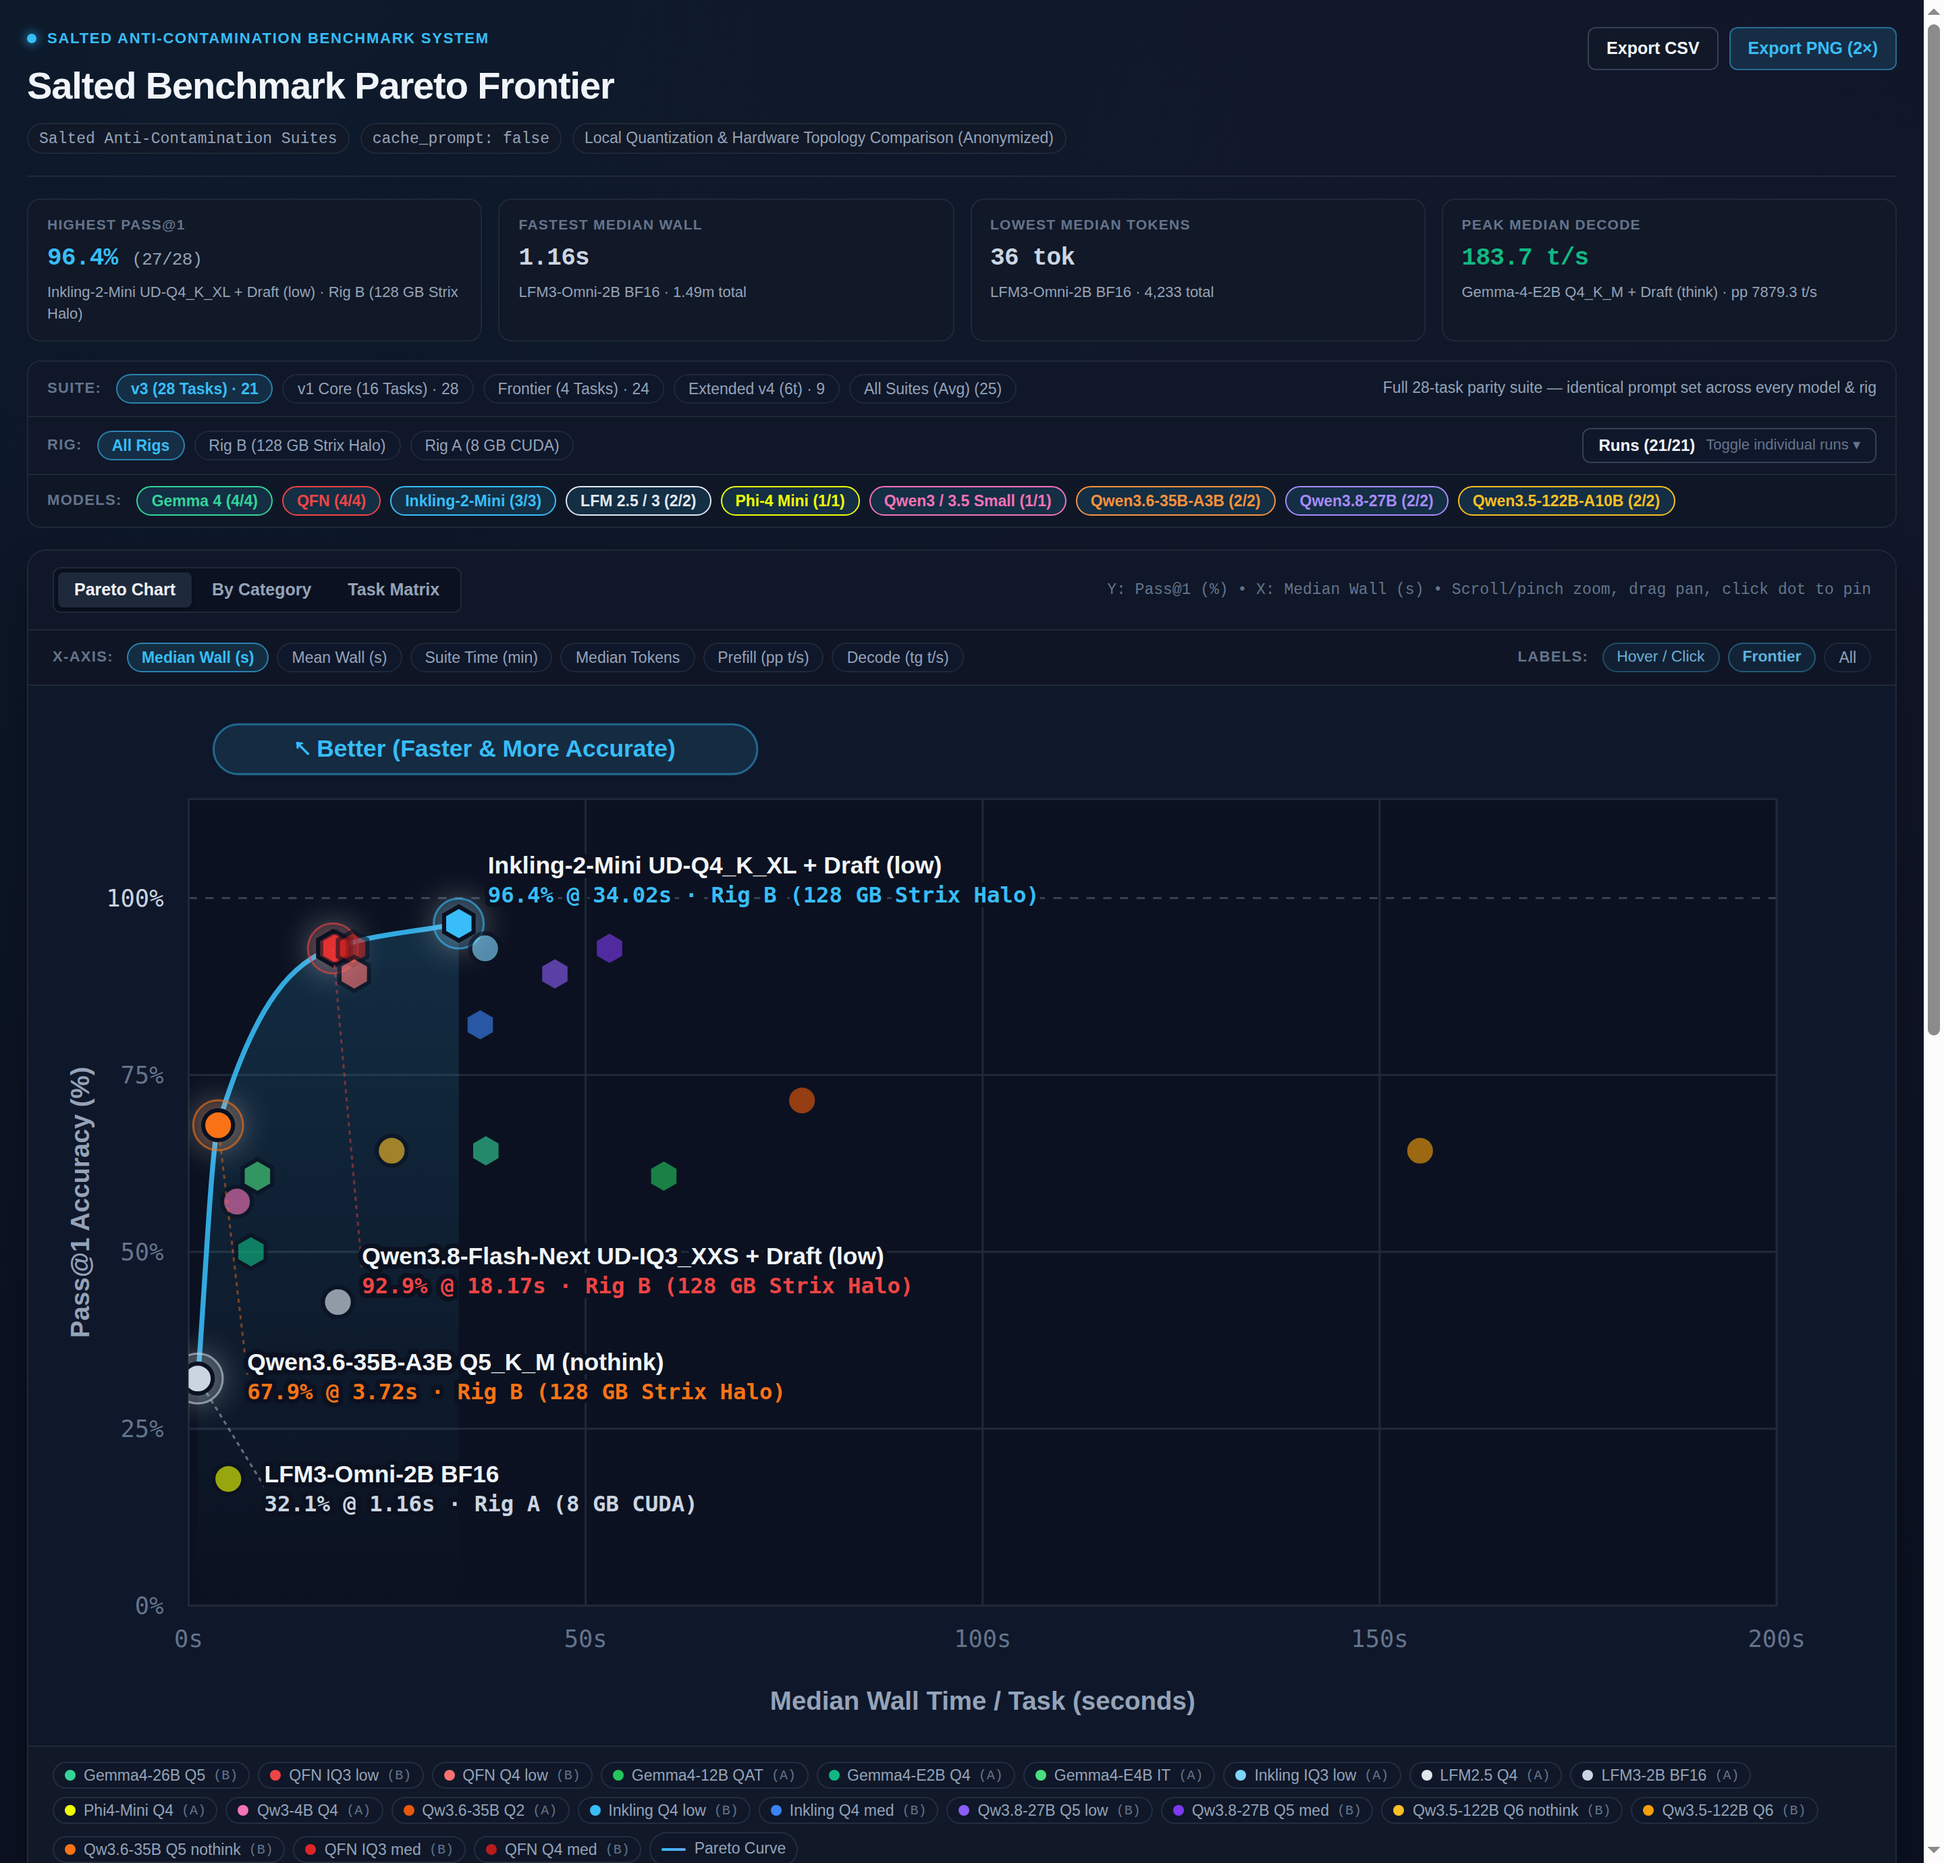
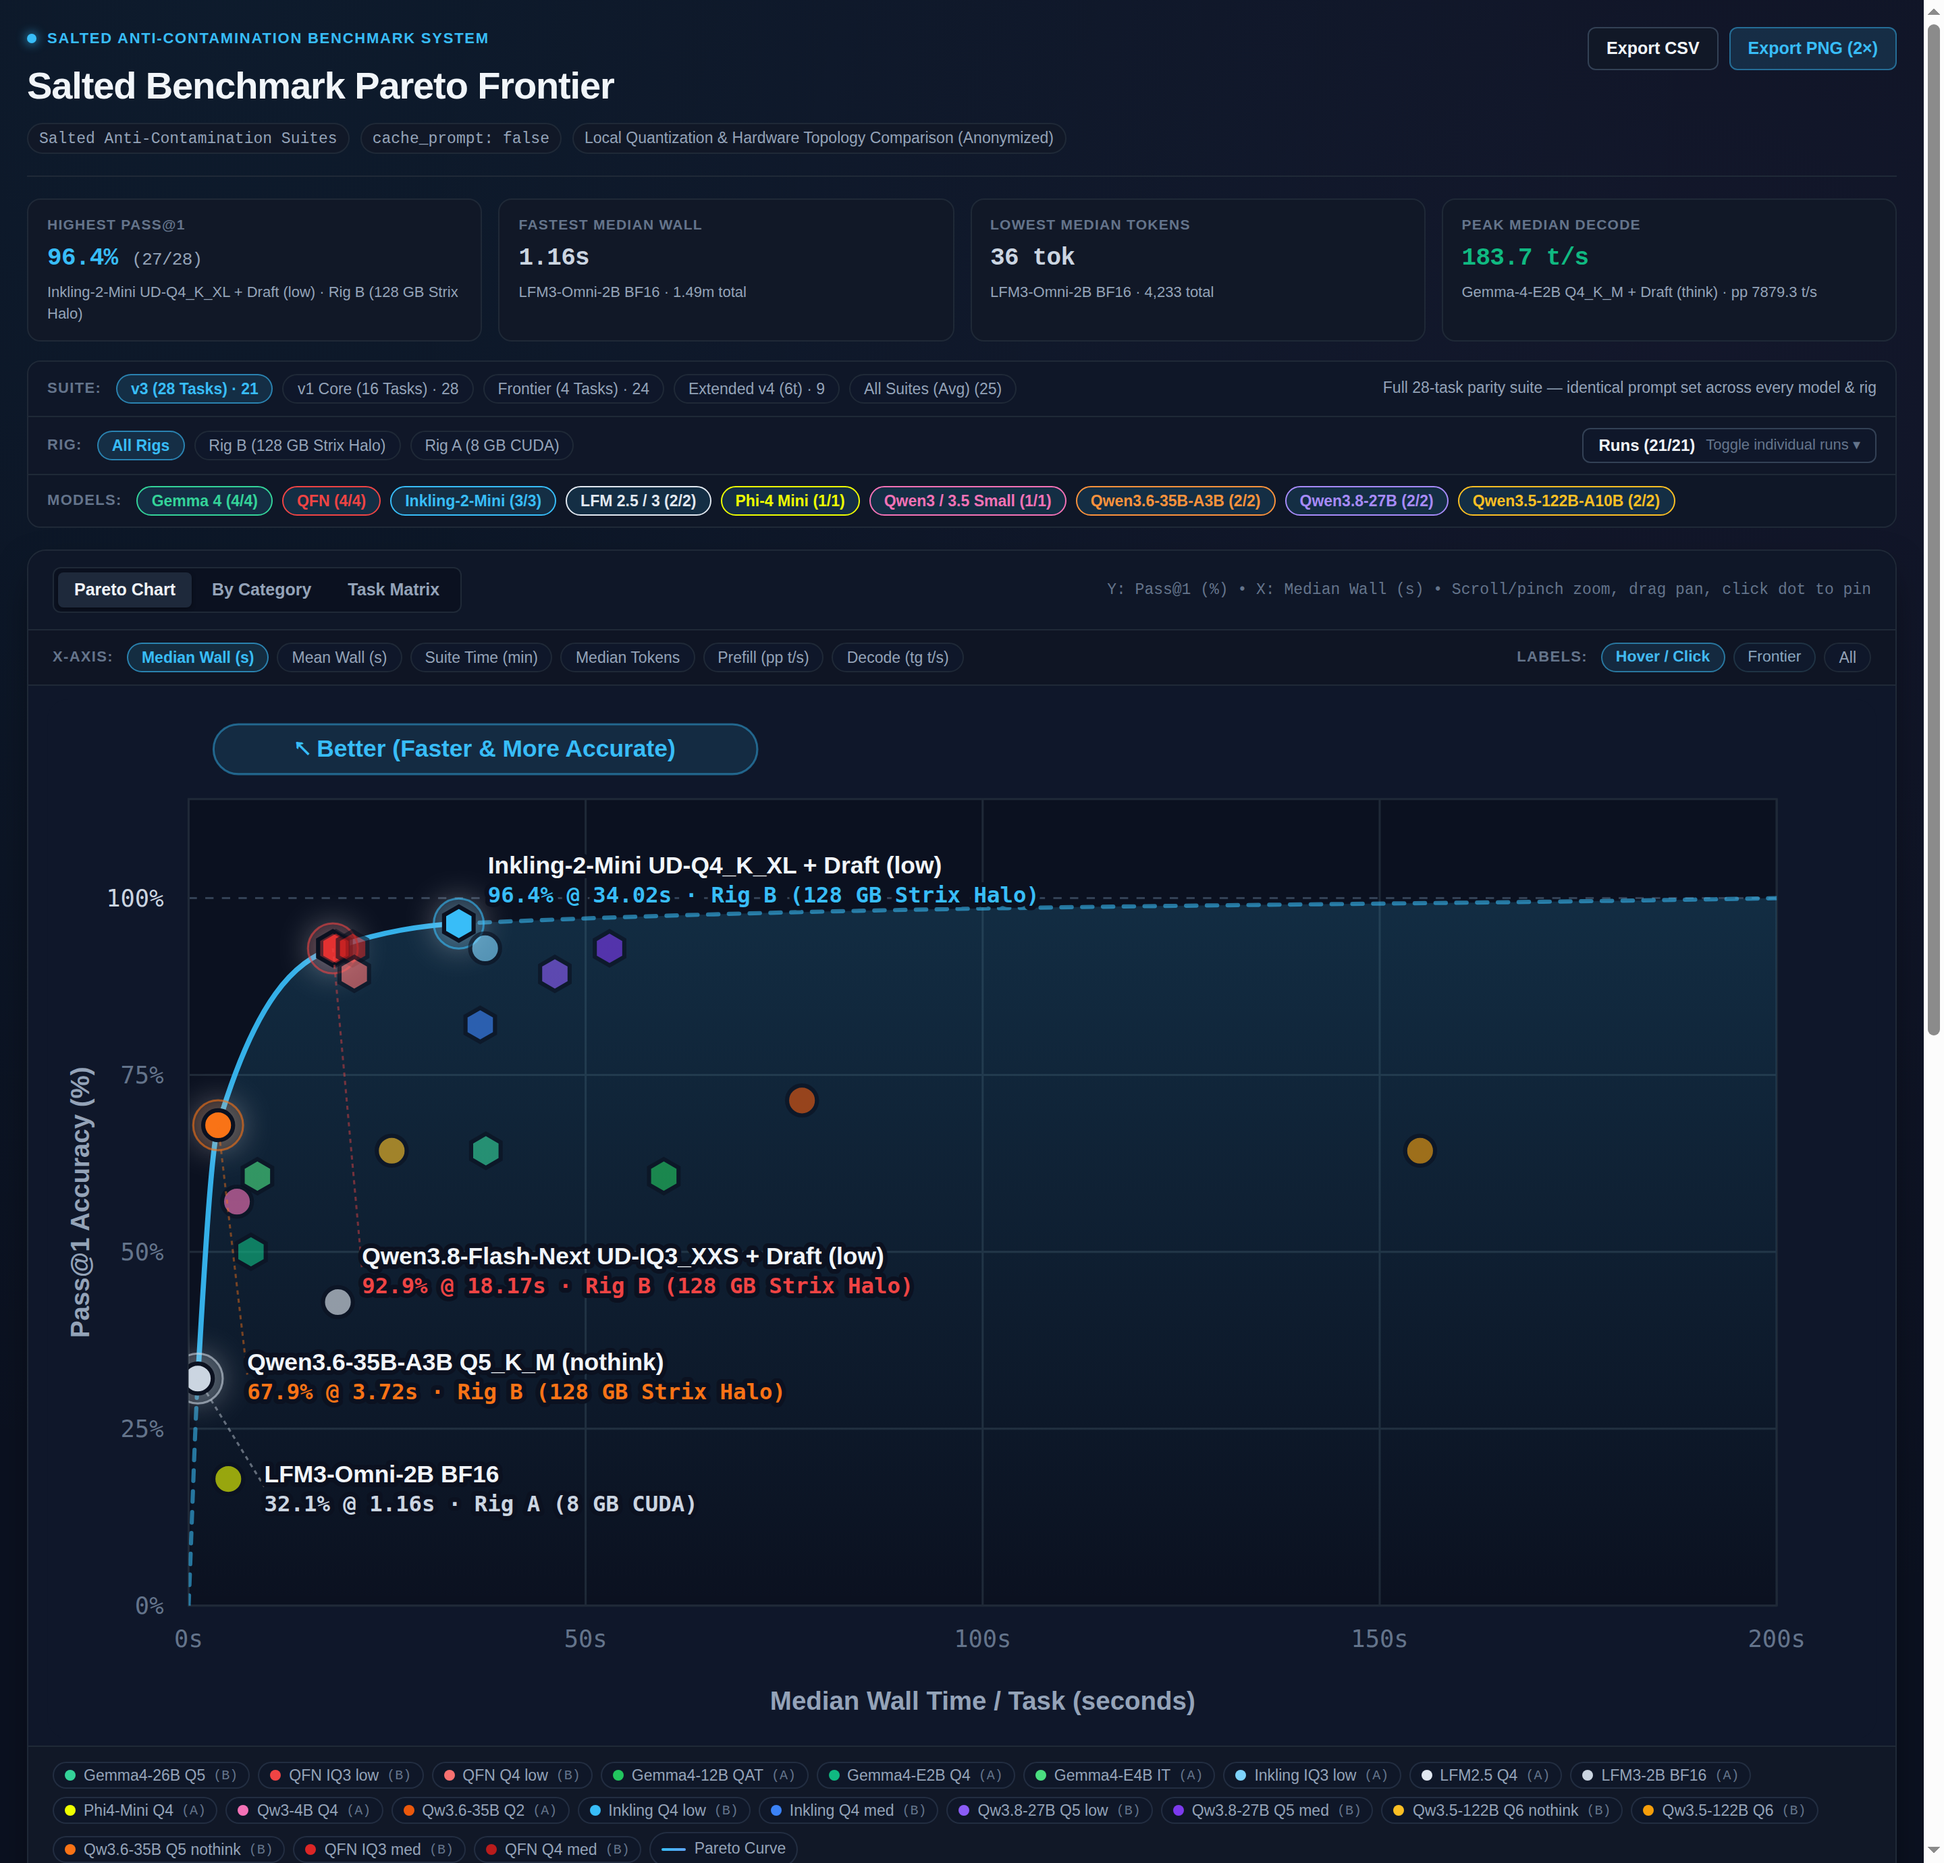
ui(dashboard): project Pareto frontier tails smoothly to 0%/100% plot edges

Changed region(s): [[0.2188, 0.4674, 0.9375, 0.592], [0.8438, 0.3428, 0.9375, 0.3739]]

diff --git a/index.html b/index.html
@@ -942,11 +942,9 @@
         return plotLayer;
       }
 
-      function monotoneCurveD(pts) {
-        if (!pts.length) return '';
-        if (pts.length === 1) return `M ${pts[0].x} ${pts[0].y}`;
-        if (pts.length === 2) return `M ${pts[0].x} ${pts[0].y} L ${pts[1].x} ${pts[1].y}`;
+      function monotoneSegments(pts) {
         const n = pts.length;
+        if (n < 2) return [];
         const dx = [], m = [];
         for (let i = 0; i < n - 1; i++) {
           const dxi = Math.max(0.5, pts[i + 1].x - pts[i].x);
@@ -964,25 +962,60 @@
             tang[i] = (w1 + w2) / (w1 / m[i - 1] + w2 / m[i]);
           }
         }
-        const parts = [`M ${pts[0].x.toFixed(2)} ${pts[0].y.toFixed(2)}`];
+        const segs = [];
         for (let i = 0; i < n - 1; i++) {
           const h = dx[i] / 3;
           const c1x = pts[i].x + h, c1y = pts[i].y + tang[i] * h;
           const c2x = pts[i + 1].x - h, c2y = pts[i + 1].y - tang[i + 1] * h;
-          parts.push(`C ${c1x.toFixed(2)} ${c1y.toFixed(2)}, ${c2x.toFixed(2)} ${c2y.toFixed(2)}, ${pts[i + 1].x.toFixed(2)} ${pts[i + 1].y.toFixed(2)}`);
+          segs.push({
+            x0: pts[i].x, y0: pts[i].y,
+            cmd: `C ${c1x.toFixed(2)} ${c1y.toFixed(2)}, ${c2x.toFixed(2)} ${c2y.toFixed(2)}, ${pts[i + 1].x.toFixed(2)} ${pts[i + 1].y.toFixed(2)}`,
+          });
         }
-        return parts.join(' ');
+        return segs;
       }
 
       function renderFrontierPath(layer, front, xKey, yKey, dom, lowerIsBetter) {
         if (!front.length) return;
         const pts = front.map(p => ({ x: sx(p[xKey], dom), y: sy(p[yKey], dom) })).sort((a, b) => a.x - b.x);
-        if (pts.length === 1) return;
-        const curveD = monotoneCurveD(pts);
-        const plotBottom = PAD.top + PLOT_H;
-        const areaD = `${curveD} L ${pts[pts.length - 1].x.toFixed(2)} ${plotBottom} L ${pts[0].x.toFixed(2)} ${plotBottom} Z`;
+        const y0Px = sy(0, dom), y100Px = sy(100, dom);
+        const leftEdge = PAD.left, rightEdge = PAD.left + PLOT_W, plotBottom = PAD.top + PLOT_H;
+        const leftAnchor = lowerIsBetter
+          ? { x: Math.min(pts[0].x - 0.5, Math.max(leftEdge, sx(0, dom))), y: y0Px }
+          : { x: Math.min(pts[0].x - 0.5, leftEdge), y: y100Px };
+        const rightAnchor = lowerIsBetter
+          ? { x: Math.max(pts[pts.length - 1].x + 0.5, rightEdge), y: y100Px }
+          : { x: Math.max(pts[pts.length - 1].x + 0.5, rightEdge), y: y0Px };
+
+        const extPts = [];
+        if (pts[0].x > leftAnchor.x + 1 || Math.abs(pts[0].y - leftAnchor.y) > 1) extPts.push(leftAnchor);
+        const coreStart = extPts.length;
+        pts.forEach(p => extPts.push(p));
+        const hasRight = (rightAnchor.x > pts[pts.length - 1].x + 1 || Math.abs(rightAnchor.y - pts[pts.length - 1].y) > 1);
+        if (hasRight) extPts.push(rightAnchor);
+
+        const segs = monotoneSegments(extPts);
+        if (!segs.length) return;
+        const fullD = `M ${extPts[0].x.toFixed(2)} ${extPts[0].y.toFixed(2)} ` + segs.map(s => s.cmd).join(' ');
+        const areaD = `${fullD} L ${extPts[extPts.length - 1].x.toFixed(2)} ${plotBottom} L ${extPts[0].x.toFixed(2)} ${plotBottom} Z`;
         layer.appendChild(el('path', { d: areaD, fill: 'url(#frontier-area-grad)' }));
-        layer.appendChild(el('path', { d: curveD, fill: 'none', stroke: '#38bdf8', 'stroke-width': 2.4, 'stroke-linecap': 'round', 'stroke-opacity': 0.88 }));
+
+        // Projected tails (dashed, softer) + measured core frontier (solid) sharing identical C1 spline tangents
+        const coreEndSeg = coreStart + Math.max(0, pts.length - 1);
+        if (coreStart > 0) {
+          const dLeft = `M ${segs[0].x0.toFixed(2)} ${segs[0].y0.toFixed(2)} ${segs[0].cmd}`;
+          layer.appendChild(el('path', { d: dLeft, fill: 'none', stroke: '#38bdf8', 'stroke-width': 2.0, 'stroke-dasharray': '5 5', 'stroke-linecap': 'round', 'stroke-opacity': 0.58 }));
+        }
+        if (pts.length >= 2) {
+          const coreSegs = segs.slice(coreStart, coreEndSeg);
+          const dCore = `M ${coreSegs[0].x0.toFixed(2)} ${coreSegs[0].y0.toFixed(2)} ` + coreSegs.map(s => s.cmd).join(' ');
+          layer.appendChild(el('path', { d: dCore, fill: 'none', stroke: '#38bdf8', 'stroke-width': 2.5, 'stroke-linecap': 'round', 'stroke-opacity': 0.92 }));
+        }
+        if (hasRight) {
+          const rSeg = segs[segs.length - 1];
+          const dRight = `M ${rSeg.x0.toFixed(2)} ${rSeg.y0.toFixed(2)} ${rSeg.cmd}`;
+          layer.appendChild(el('path', { d: dRight, fill: 'none', stroke: '#38bdf8', 'stroke-width': 2.0, 'stroke-dasharray': '5 5', 'stroke-linecap': 'round', 'stroke-opacity': 0.58 }));
+        }
       }
 
       function drawMarker(layer, cx, cy, color, shape, isFront, isHighlighted, payload, kind, ptId, labelGroup) {

diff --git a/pareto-dashboard.py b/pareto-dashboard.py
@@ -1137,11 +1137,9 @@ HTML_TEMPLATE = r"""<!DOCTYPE html>
         return plotLayer;
       }
 
-      function monotoneCurveD(pts) {
-        if (!pts.length) return '';
-        if (pts.length === 1) return `M ${pts[0].x} ${pts[0].y}`;
-        if (pts.length === 2) return `M ${pts[0].x} ${pts[0].y} L ${pts[1].x} ${pts[1].y}`;
+      function monotoneSegments(pts) {
         const n = pts.length;
+        if (n < 2) return [];
         const dx = [], m = [];
         for (let i = 0; i < n - 1; i++) {
           const dxi = Math.max(0.5, pts[i + 1].x - pts[i].x);
@@ -1159,25 +1157,60 @@ HTML_TEMPLATE = r"""<!DOCTYPE html>
             tang[i] = (w1 + w2) / (w1 / m[i - 1] + w2 / m[i]);
           }
         }
-        const parts = [`M ${pts[0].x.toFixed(2)} ${pts[0].y.toFixed(2)}`];
+        const segs = [];
         for (let i = 0; i < n - 1; i++) {
           const h = dx[i] / 3;
           const c1x = pts[i].x + h, c1y = pts[i].y + tang[i] * h;
           const c2x = pts[i + 1].x - h, c2y = pts[i + 1].y - tang[i + 1] * h;
-          parts.push(`C ${c1x.toFixed(2)} ${c1y.toFixed(2)}, ${c2x.toFixed(2)} ${c2y.toFixed(2)}, ${pts[i + 1].x.toFixed(2)} ${pts[i + 1].y.toFixed(2)}`);
+          segs.push({
+            x0: pts[i].x, y0: pts[i].y,
+            cmd: `C ${c1x.toFixed(2)} ${c1y.toFixed(2)}, ${c2x.toFixed(2)} ${c2y.toFixed(2)}, ${pts[i + 1].x.toFixed(2)} ${pts[i + 1].y.toFixed(2)}`,
+          });
         }
-        return parts.join(' ');
+        return segs;
       }
 
       function renderFrontierPath(layer, front, xKey, yKey, dom, lowerIsBetter) {
         if (!front.length) return;
         const pts = front.map(p => ({ x: sx(p[xKey], dom), y: sy(p[yKey], dom) })).sort((a, b) => a.x - b.x);
-        if (pts.length === 1) return;
-        const curveD = monotoneCurveD(pts);
-        const plotBottom = PAD.top + PLOT_H;
-        const areaD = `${curveD} L ${pts[pts.length - 1].x.toFixed(2)} ${plotBottom} L ${pts[0].x.toFixed(2)} ${plotBottom} Z`;
+        const y0Px = sy(0, dom), y100Px = sy(100, dom);
+        const leftEdge = PAD.left, rightEdge = PAD.left + PLOT_W, plotBottom = PAD.top + PLOT_H;
+        const leftAnchor = lowerIsBetter
+          ? { x: Math.min(pts[0].x - 0.5, Math.max(leftEdge, sx(0, dom))), y: y0Px }
+          : { x: Math.min(pts[0].x - 0.5, leftEdge), y: y100Px };
+        const rightAnchor = lowerIsBetter
+          ? { x: Math.max(pts[pts.length - 1].x + 0.5, rightEdge), y: y100Px }
+          : { x: Math.max(pts[pts.length - 1].x + 0.5, rightEdge), y: y0Px };
+
+        const extPts = [];
+        if (pts[0].x > leftAnchor.x + 1 || Math.abs(pts[0].y - leftAnchor.y) > 1) extPts.push(leftAnchor);
+        const coreStart = extPts.length;
+        pts.forEach(p => extPts.push(p));
+        const hasRight = (rightAnchor.x > pts[pts.length - 1].x + 1 || Math.abs(rightAnchor.y - pts[pts.length - 1].y) > 1);
+        if (hasRight) extPts.push(rightAnchor);
+
+        const segs = monotoneSegments(extPts);
+        if (!segs.length) return;
+        const fullD = `M ${extPts[0].x.toFixed(2)} ${extPts[0].y.toFixed(2)} ` + segs.map(s => s.cmd).join(' ');
+        const areaD = `${fullD} L ${extPts[extPts.length - 1].x.toFixed(2)} ${plotBottom} L ${extPts[0].x.toFixed(2)} ${plotBottom} Z`;
         layer.appendChild(el('path', { d: areaD, fill: 'url(#frontier-area-grad)' }));
-        layer.appendChild(el('path', { d: curveD, fill: 'none', stroke: '#38bdf8', 'stroke-width': 2.4, 'stroke-linecap': 'round', 'stroke-opacity': 0.88 }));
+
+        // Projected tails (dashed, softer) + measured core frontier (solid) sharing identical C1 spline tangents
+        const coreEndSeg = coreStart + Math.max(0, pts.length - 1);
+        if (coreStart > 0) {
+          const dLeft = `M ${segs[0].x0.toFixed(2)} ${segs[0].y0.toFixed(2)} ${segs[0].cmd}`;
+          layer.appendChild(el('path', { d: dLeft, fill: 'none', stroke: '#38bdf8', 'stroke-width': 2.0, 'stroke-dasharray': '5 5', 'stroke-linecap': 'round', 'stroke-opacity': 0.58 }));
+        }
+        if (pts.length >= 2) {
+          const coreSegs = segs.slice(coreStart, coreEndSeg);
+          const dCore = `M ${coreSegs[0].x0.toFixed(2)} ${coreSegs[0].y0.toFixed(2)} ` + coreSegs.map(s => s.cmd).join(' ');
+          layer.appendChild(el('path', { d: dCore, fill: 'none', stroke: '#38bdf8', 'stroke-width': 2.5, 'stroke-linecap': 'round', 'stroke-opacity': 0.92 }));
+        }
+        if (hasRight) {
+          const rSeg = segs[segs.length - 1];
+          const dRight = `M ${rSeg.x0.toFixed(2)} ${rSeg.y0.toFixed(2)} ${rSeg.cmd}`;
+          layer.appendChild(el('path', { d: dRight, fill: 'none', stroke: '#38bdf8', 'stroke-width': 2.0, 'stroke-dasharray': '5 5', 'stroke-linecap': 'round', 'stroke-opacity': 0.58 }));
+        }
       }
 
       function drawMarker(layer, cx, cy, color, shape, isFront, isHighlighted, payload, kind, ptId, labelGroup) {
